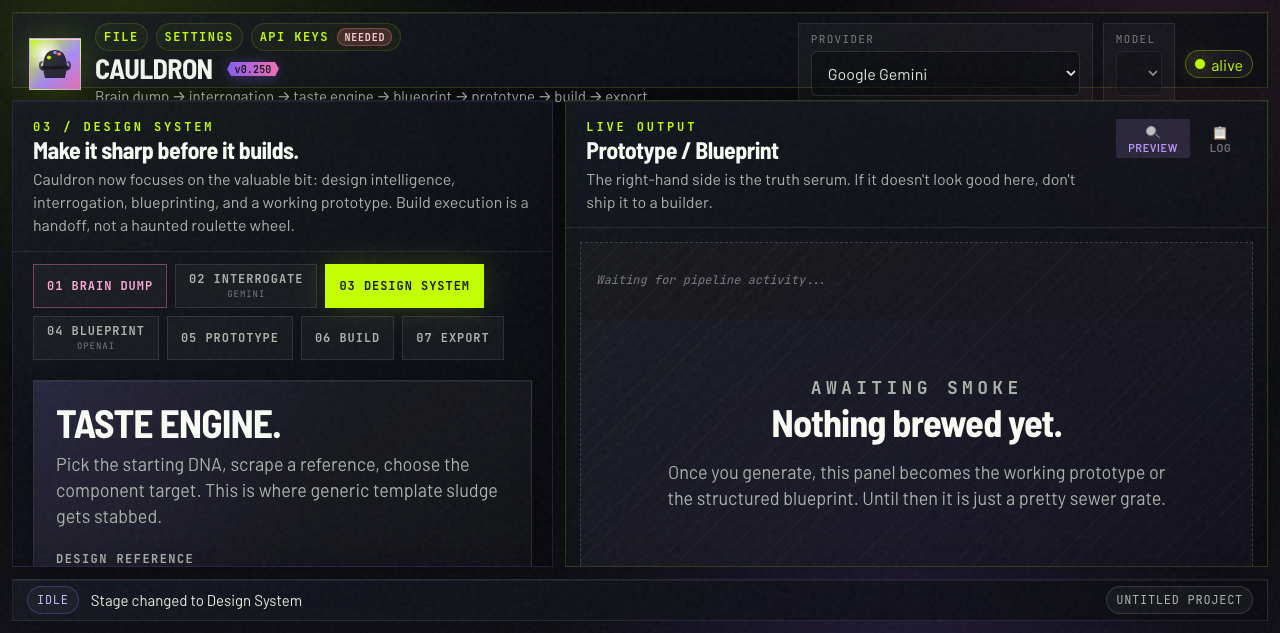
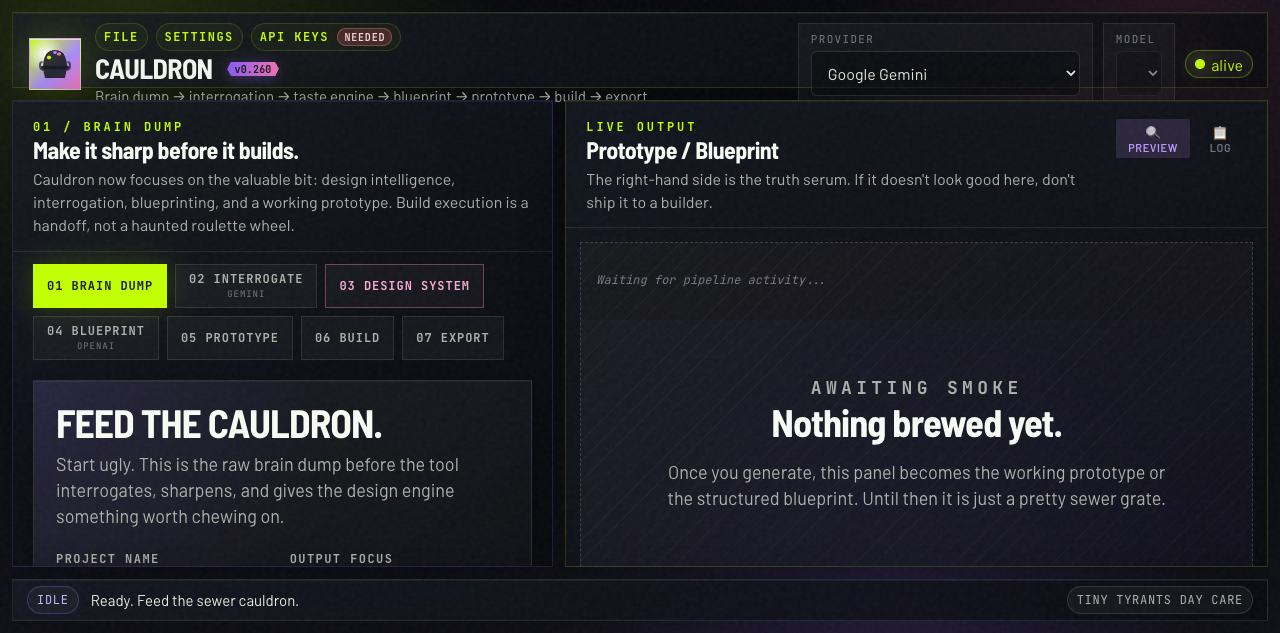
New screenshots + Chihuahua walkthrough GIF
- 01-main-ui.png: Brain Dump stage with 'Tiny Tyrants Day Care' prompt
- 02-design-dropdown.png: Design System stage with Taste Engine panel
- 03-prototype-preview.png: Generated prototype with Chihuahua profile cards and Tantrum Meter
- New walkthrough GIF replacing old Rude Boy Coffee demo
- README screenshots section updated with new captures

diff --git a/README.md b/README.md
@@ -67,16 +67,17 @@ You will need Node.js 18+. For local AI generation, install Ollama and pull at l
 
 ## Screenshots
 
-**Main UI** — Two-panel layout: Brain Dump + pipeline controls on the left, live output on the right.<br>
+**Main UI** — Two-panel layout: Brain Dump + pipeline controls on the left, live output on the right. Here shown with a "Tiny Tyrants Day Care" Chihuahua landing page prompt.<br>
 ![Main UI](assets/screenshots/01-main-ui.png)
 
 **Design System & Taste Engine** — Pick a design reference from 22 curated brands, search Refero for style inspiration, or research a custom URL.<br>
 ![Design Reference & Taste Engine](assets/screenshots/02-design-dropdown.png)
 
-**Walkthrough demo** — Rude Boy Coffee Co rewards app generated from a Brain Dump plus the live cloner/reference URL research flow.<br>
-![Rude Boy Coffee walkthrough](assets/demo/cauldron-rude-boy-coffee-walkthrough.gif)
+**Generated Prototype** — Live HTML + AlpineJS prototype preview with Chihuahua profile cards, a live Tantrum Meter, and the Bauhaus-meets-pampered-pooch aesthetic.<br>
+![Generated Prototype](assets/screenshots/03-prototype-preview.png)
 
-A browser-recorded `.webm` walkthrough is also included at [`assets/demo/cauldron-rude-boy-coffee-walkthrough.webm`](assets/demo/cauldron-rude-boy-coffee-walkthrough.webm).
+**Walkthrough demo** — Three-stage pipeline walkthrough: Brain Dump → Design System → Generated Prototype for the "Tiny Tyrants Day Care" Chihuahua landing page.<br>
+![Chihuahua walkthrough](assets/demo/cauldron-chihuahua-walkthrough.gif)
 
 ---
 